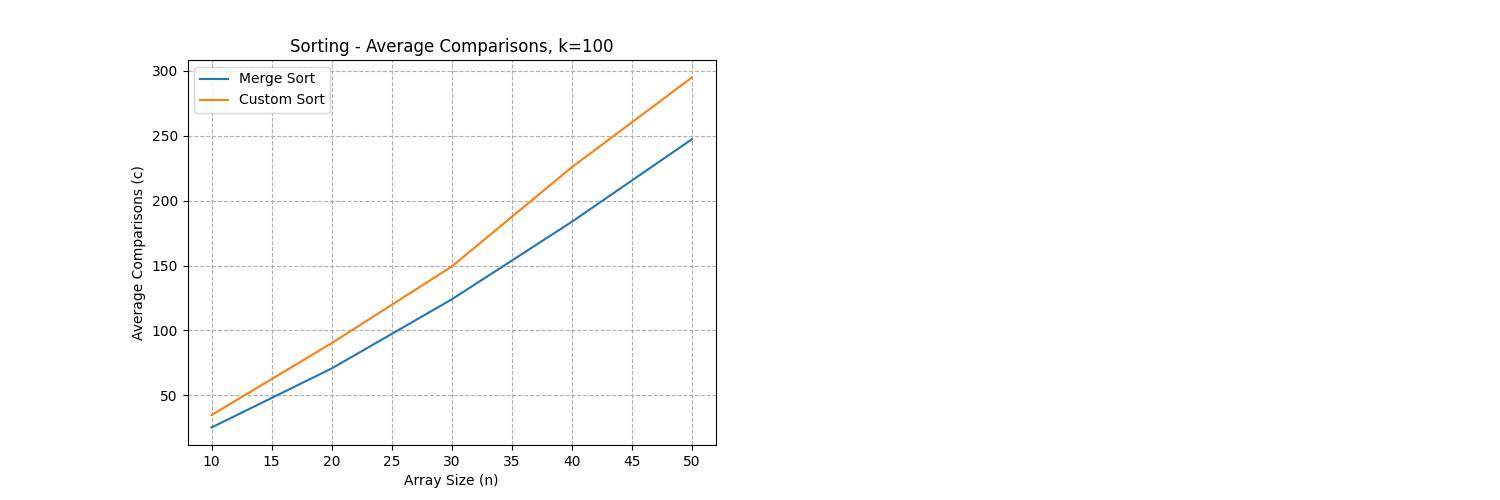
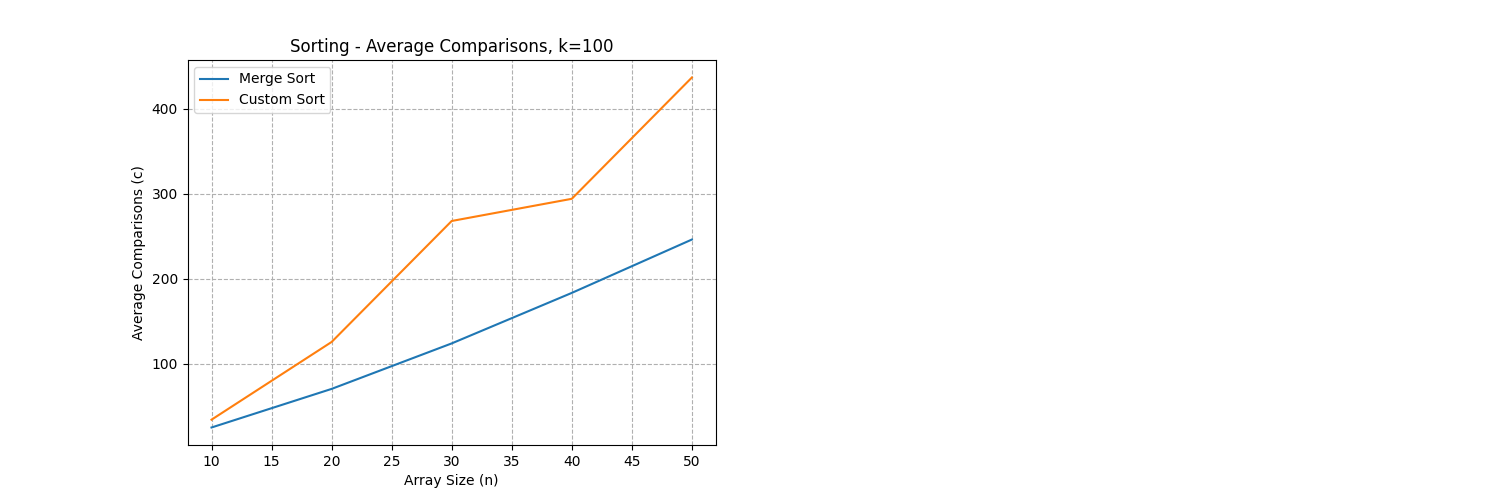
[aisd] Fixed a bug

diff --git a/sem4/aisd/list2/sorting_algorithms/custom_sort.py b/sem4/aisd/list2/sorting_algorithms/custom_sort.py
@@ -21,7 +21,7 @@ def calculate_min_run(arr_length: int) -> int:
     while arr_length >= MIN_MERGE:
         remainder |= arr_length & 1
         arr_length >>= 1
-    return 2
+    return arr_length + remainder
 
 
 def custom_sort(arr: List[int]) -> Tuple[int, int]:
